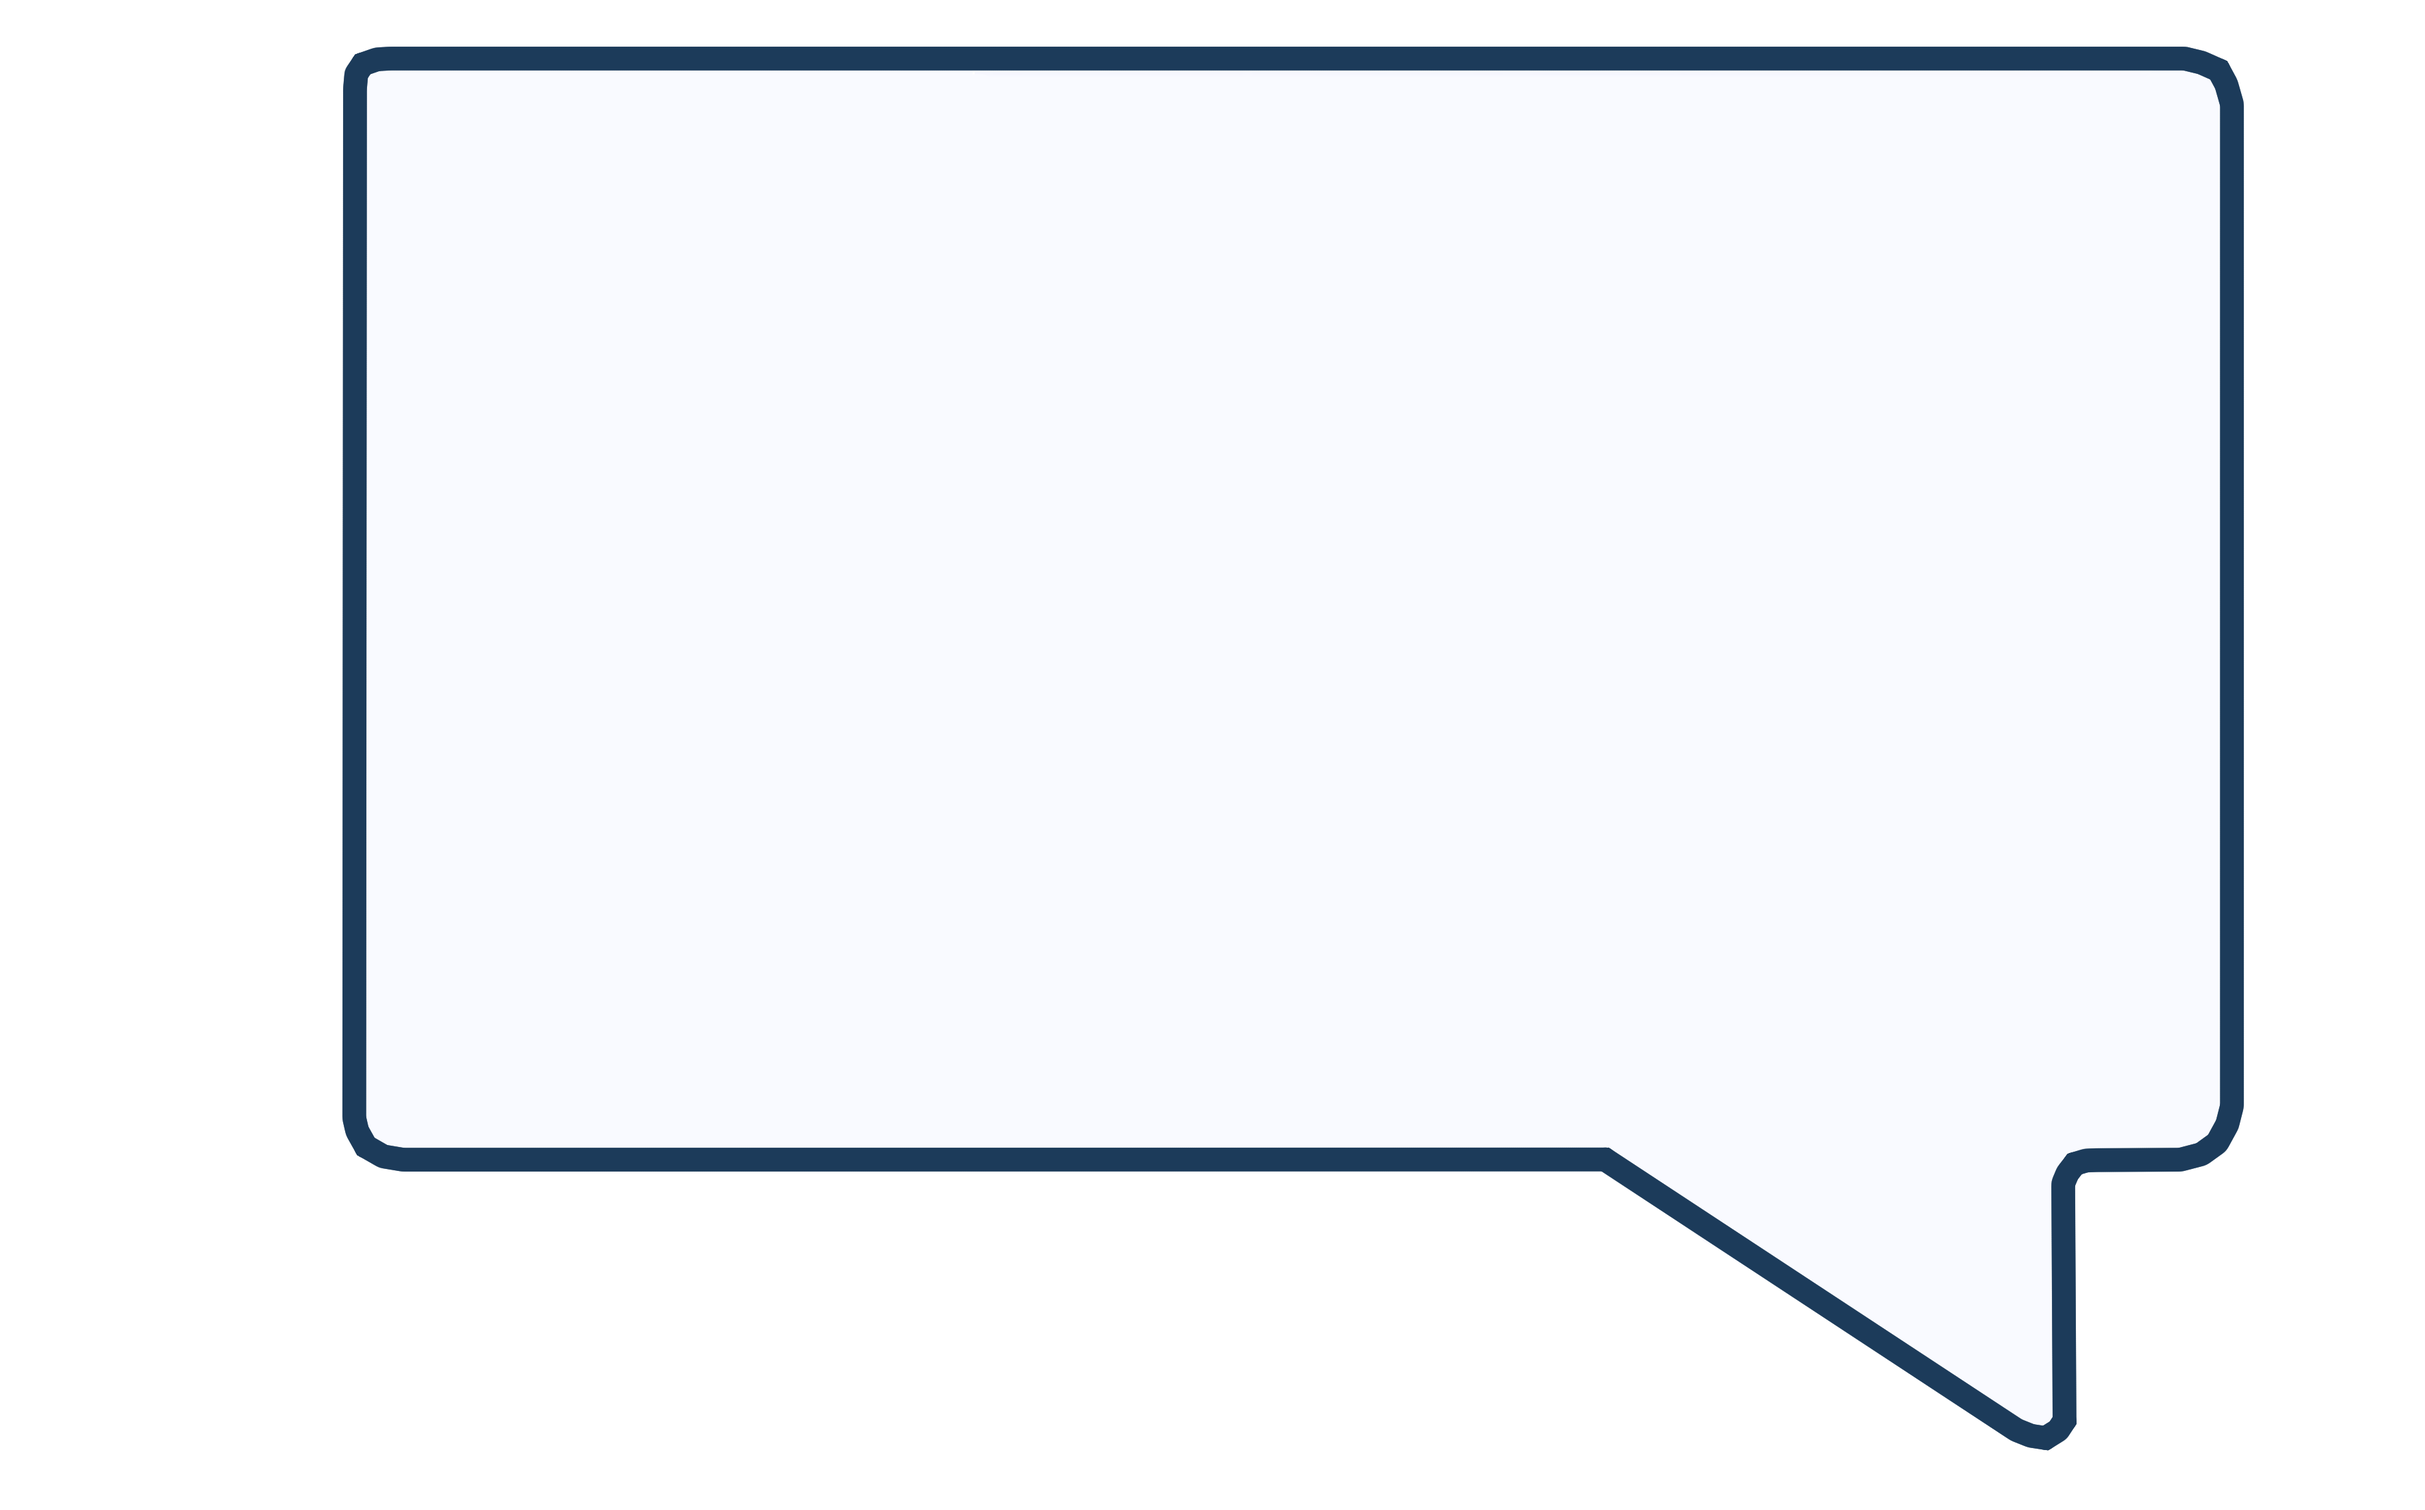
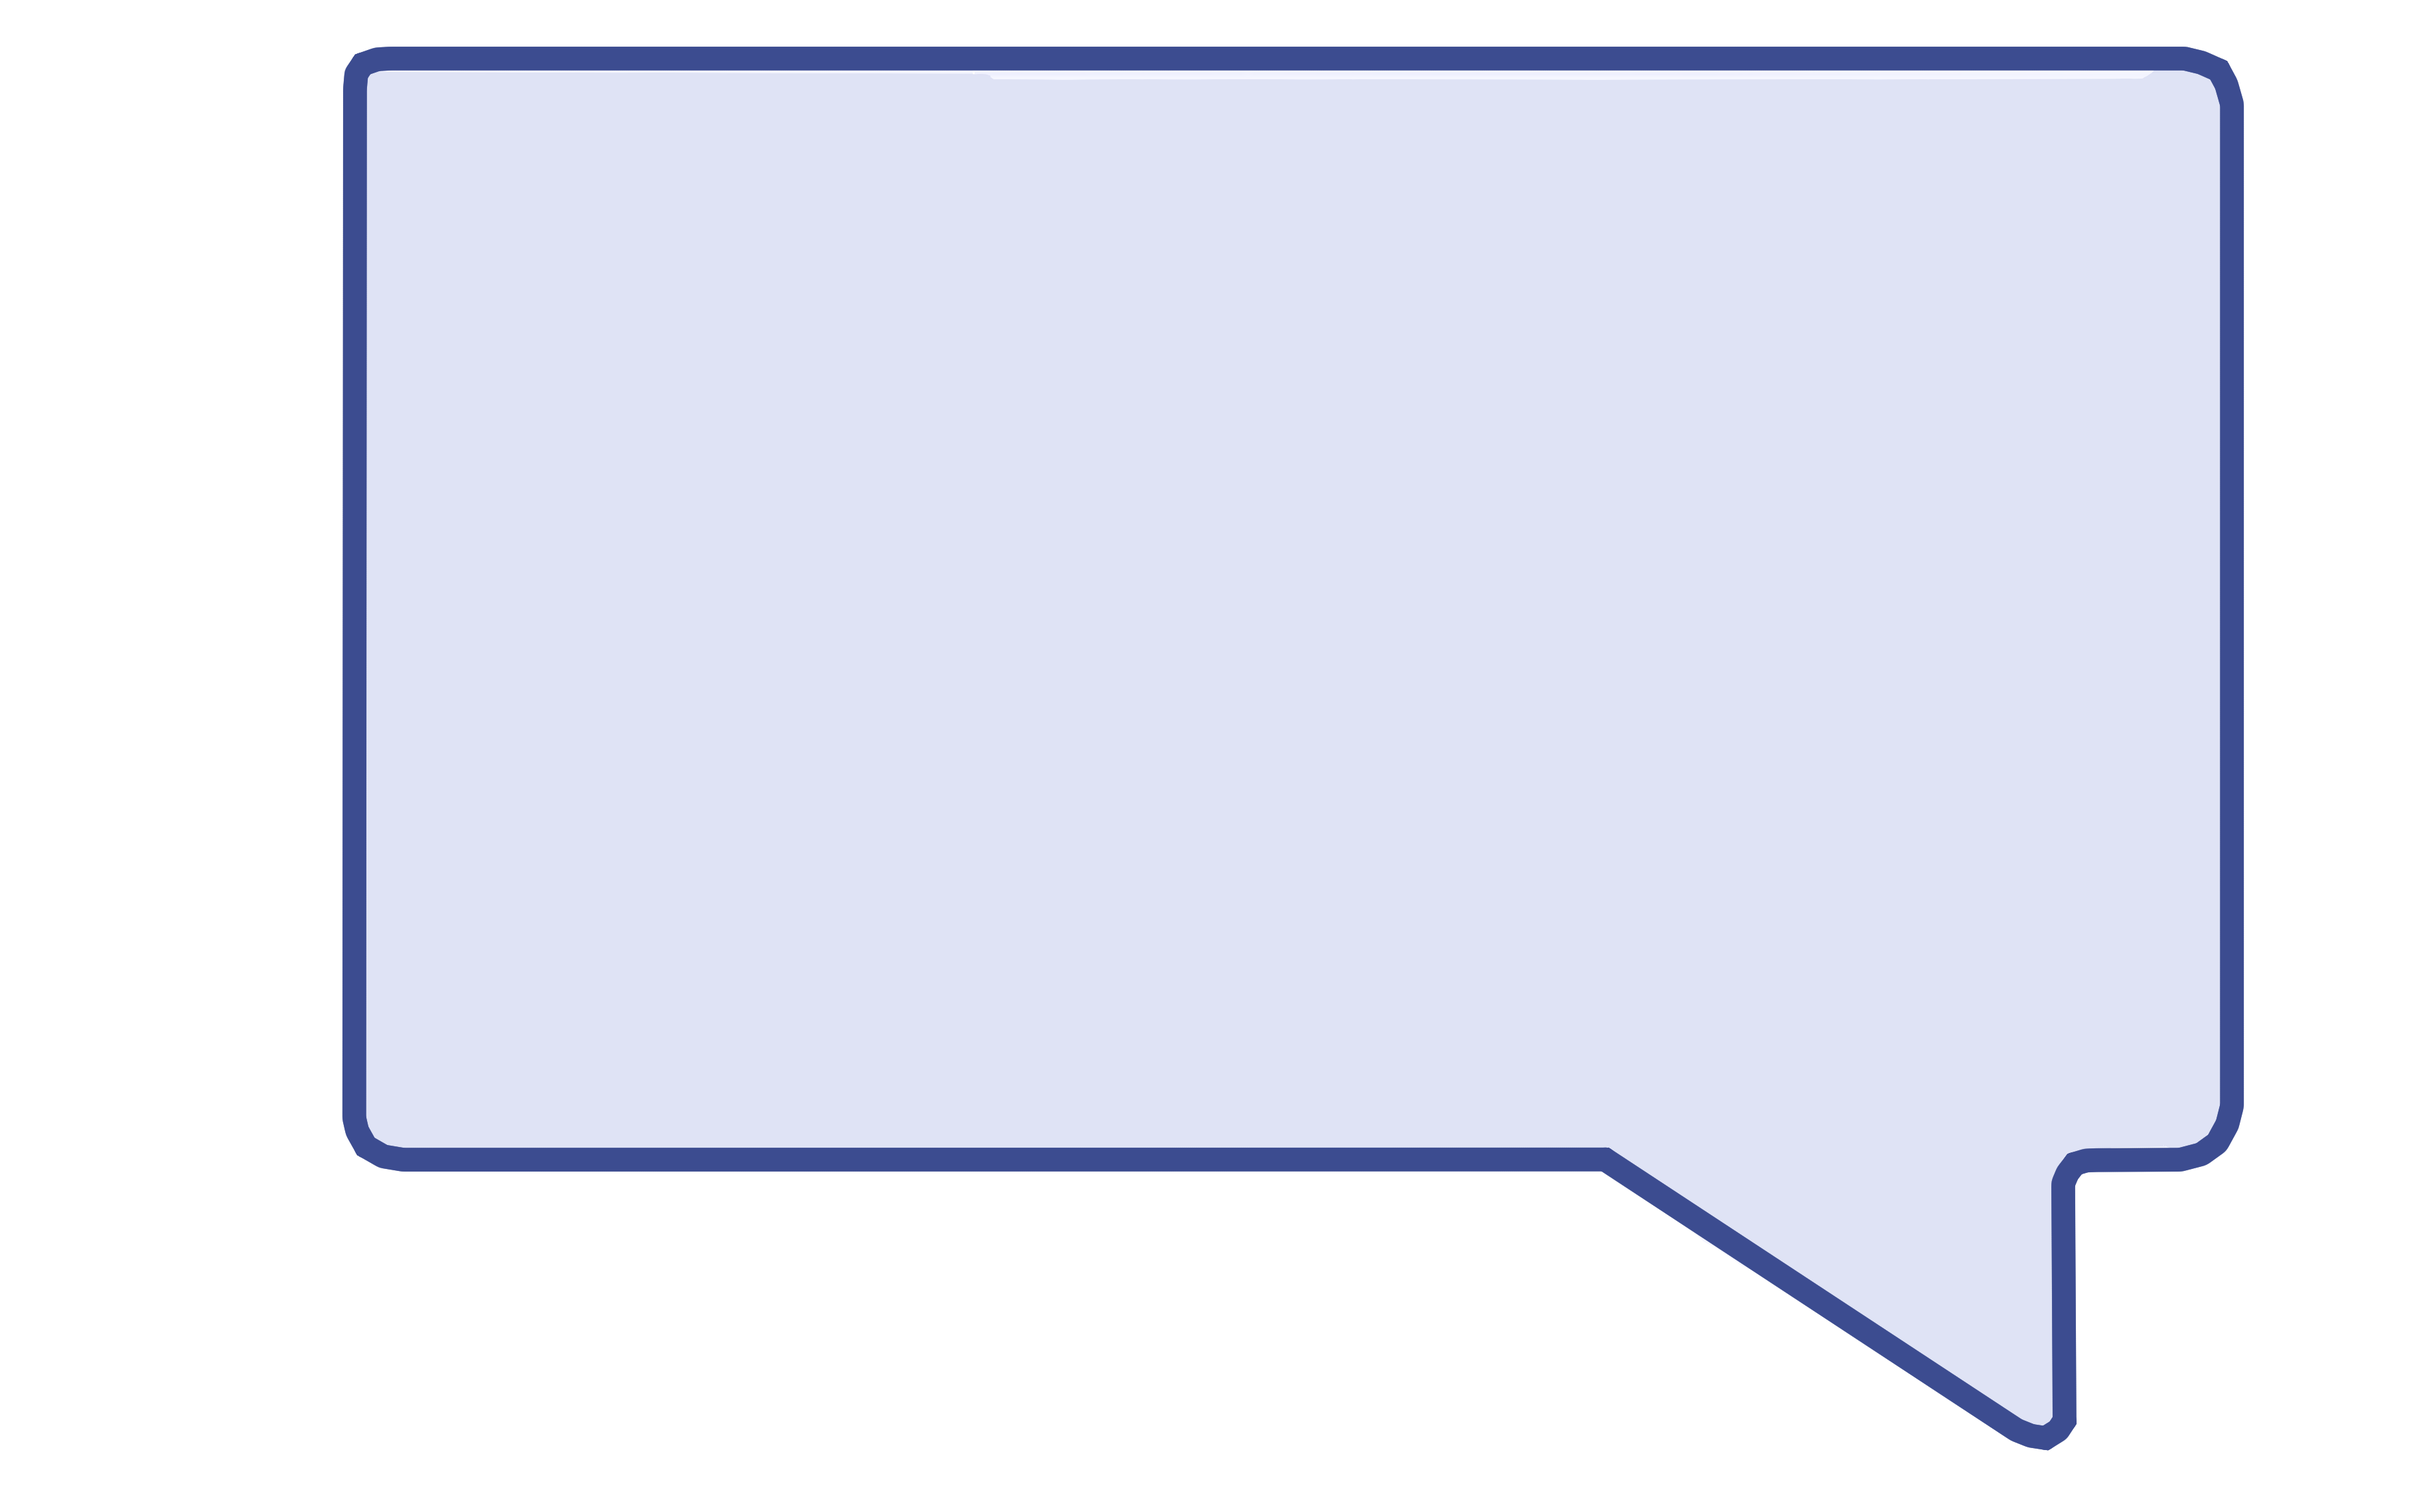
fine tuned paralax values

diff --git a/app/page.tsx b/app/page.tsx
@@ -49,6 +49,66 @@ function HomePage() {
       <p> dddddddddddddddddddddddddddddddddddddddddddddddddddddd </p>
       <p> dddddddddddddddddddddddddddddddddddddddddddddddddddddd </p>
       <p> dddddddddddddddddddddddddddddddddddddddddddddddddddddd </p>
+      <p> dddddddddddddddddddddddddddddddddddddddddddddddddddddd </p>
+
+      <p> dddddddddddddddddddddddddddddddddddddddddddddddddddddd </p>
+      <p> dddddddddddddddddddddddddddddddddddddddddddddddddddddd </p>
+      <p> dddddddddddddddddddddddddddddddddddddddddddddddddddddd </p>
+      <p> dddddddddddddddddddddddddddddddddddddddddddddddddddddd </p>
+      <p> dddddddddddddddddddddddddddddddddddddddddddddddddddddd </p>
+      <p> dddddddddddddddddddddddddddddddddddddddddddddddddddddd </p>
+      <p> dddddddddddddddddddddddddddddddddddddddddddddddddddddd </p>
+      <p> dddddddddddddddddddddddddddddddddddddddddddddddddddddd </p>
+      <p> dddddddddddddddddddddddddddddddddddddddddddddddddddddd </p>
+      <p> dddddddddddddddddddddddddddddddddddddddddddddddddddddd </p>
+      <p> dddddddddddddddddddddddddddddddddddddddddddddddddddddd </p>
+      <p> dddddddddddddddddddddddddddddddddddddddddddddddddddddd </p>
+      <p> dddddddddddddddddddddddddddddddddddddddddddddddddddddd </p>
+      <p> dddddddddddddddddddddddddddddddddddddddddddddddddddddd </p>
+
+      <p> dddddddddddddddddddddddddddddddddddddddddddddddddddddd </p>
+      <p> dddddddddddddddddddddddddddddddddddddddddddddddddddddd </p>
+      <p> dddddddddddddddddddddddddddddddddddddddddddddddddddddd </p>
+      <p> dddddddddddddddddddddddddddddddddddddddddddddddddddddd </p>
+      <p> dddddddddddddddddddddddddddddddddddddddddddddddddddddd </p>
+      <p> dddddddddddddddddddddddddddddddddddddddddddddddddddddd </p>
+      <p> dddddddddddddddddddddddddddddddddddddddddddddddddddddd </p>
+      <p> dddddddddddddddddddddddddddddddddddddddddddddddddddddd </p>
+      <p> dddddddddddddddddddddddddddddddddddddddddddddddddddddd </p>
+      <p> dddddddddddddddddddddddddddddddddddddddddddddddddddddd </p>
+      <p> dddddddddddddddddddddddddddddddddddddddddddddddddddddd </p>
+      <p> dddddddddddddddddddddddddddddddddddddddddddddddddddddd </p>
+      <p> dddddddddddddddddddddddddddddddddddddddddddddddddddddd </p>
+      <p> dddddddddddddddddddddddddddddddddddddddddddddddddddddd </p>
+
+      <p> dddddddddddddddddddddddddddddddddddddddddddddddddddddd </p>
+      <p> dddddddddddddddddddddddddddddddddddddddddddddddddddddd </p>
+      <p> dddddddddddddddddddddddddddddddddddddddddddddddddddddd </p>
+      <p> dddddddddddddddddddddddddddddddddddddddddddddddddddddd </p>
+      <p> dddddddddddddddddddddddddddddddddddddddddddddddddddddd </p>
+      <p> dddddddddddddddddddddddddddddddddddddddddddddddddddddd </p>
+      <p> dddddddddddddddddddddddddddddddddddddddddddddddddddddd </p>
+      <p> dddddddddddddddddddddddddddddddddddddddddddddddddddddd </p>
+      <p> dddddddddddddddddddddddddddddddddddddddddddddddddddddd </p>
+      <p> dddddddddddddddddddddddddddddddddddddddddddddddddddddd </p>
+      <p> dddddddddddddddddddddddddddddddddddddddddddddddddddddd </p>
+      <p> dddddddddddddddddddddddddddddddddddddddddddddddddddddd </p>
+      <p> dddddddddddddddddddddddddddddddddddddddddddddddddddddd </p>
+      <p> dddddddddddddddddddddddddddddddddddddddddddddddddddddd </p>
+
+      <p> dddddddddddddddddddddddddddddddddddddddddddddddddddddd </p>
+      <p> dddddddddddddddddddddddddddddddddddddddddddddddddddddd </p>
+      <p> dddddddddddddddddddddddddddddddddddddddddddddddddddddd </p>
+      <p> dddddddddddddddddddddddddddddddddddddddddddddddddddddd </p>
+      <p> dddddddddddddddddddddddddddddddddddddddddddddddddddddd </p>
+      <p> dddddddddddddddddddddddddddddddddddddddddddddddddddddd </p>
+      <p> dddddddddddddddddddddddddddddddddddddddddddddddddddddd </p>
+      <p> dddddddddddddddddddddddddddddddddddddddddddddddddddddd </p>
+      <p> dddddddddddddddddddddddddddddddddddddddddddddddddddddd </p>
+      <p> dddddddddddddddddddddddddddddddddddddddddddddddddddddd </p>
+      <p> dddddddddddddddddddddddddddddddddddddddddddddddddddddd </p>
+      <p> dddddddddddddddddddddddddddddddddddddddddddddddddddddd </p>
+      <p> dddddddddddddddddddddddddddddddddddddddddddddddddddddd </p>
     </div>
   );
 }

diff --git a/components/paralax/CodeArtParalax.tsx b/components/paralax/CodeArtParalax.tsx
@@ -13,46 +13,54 @@ function CodeArtParalax() {
     <div className="p-8">
       <ParallaxProvider>
         <div className="relative border-4 border-amber-900">
-          <div>
+          <div className="absolute ">
             <SpeachBubble speed={20} mirror={false}>
               <SpeachBubbleContent
                 img={ReactSpeachBubble}
                 alt="reactbubble"
-                speed={14}
-                position="right-10 top-10"
-                height={100}
-                width={100}
+                start={10}
+                end={10}
+                position="right-5 top-30"
+                height={200}
+                width={200}
+                inFront={false}
               ></SpeachBubbleContent>
 
               <SpeachBubbleContent
                 img={codePP}
                 alt="codePP"
-                speed={60}
-                position="left-10 -top-1"
-                height={400}
-                width={400}
+                start={40}
+                end={50}
+                position="left-10 top-1/14"
+                height={500}
+                width={500}
+                inFront={false}
               ></SpeachBubbleContent>
             </SpeachBubble>
           </div>
 
-          <div className="absolute right-20 top-1/2">
-            <SpeachBubble speed={60} mirror={true}>
+          <div className="absolute left-2/10 top-60">
+            <SpeachBubble speed={50} mirror={true}>
               <SpeachBubbleContent
                 img={ReactSpeachBubble}
                 alt="reactbubble"
-                speed={80}
-                position="right-20 top-20"
+                start={50}
+                end={200}
+                position="right-20 top-2/10"
                 height={100}
                 width={100}
+                inFront={true}
               ></SpeachBubbleContent>
 
               <SpeachBubbleContent
                 img={artPP}
                 alt="artPP"
-                speed={60}
-                position="left-10 -top-1"
-                height={400}
-                width={400}
+                start={80}
+                end={100}
+                position="left-20 -top-2/10"
+                height={800}
+                width={800}
+                inFront={false}
               ></SpeachBubbleContent>
             </SpeachBubble>
           </div>

diff --git a/components/paralax/SpeachBubble.tsx b/components/paralax/SpeachBubble.tsx
@@ -40,21 +40,20 @@ const SpeachBubble = ({
         if (BoundingBoxRef.current && rect) {
           if (BoundingBoxRef.current.style) {
             const aspect = rect.height / rect.width;
-            const heightMult: number = rect.height > 486.3 ? 1.7 : 1.2;
-            console.log(heightMult);
-            console.log(rect.height);
+
+            const leftMult = mirror ? 0.24 : 0.14;
             BoundingBoxRef.current.style.height = `${
-              rect.height * aspect * heightMult
+              rect.height * aspect * 1.15
             }px`;
             BoundingBoxRef.current.style.width = `${
-              rect.width * aspect * 1.2
+              rect.width * aspect * 1.23
             }px`;
 
             BoundingBoxRef.current.style.top = `${
-              rect.height * aspect * 0.1
+              rect.height * aspect * 0.07
             }px`;
             BoundingBoxRef.current.style.left = `${
-              rect.width * aspect * 0.15
+              rect.width * aspect * leftMult
             }px`;
           }
         }
@@ -65,18 +64,15 @@ const SpeachBubble = ({
   return (
     <div>
       <Parallax speed={speed}>
-        <div
-          ref={BoundingBoxRef}
-          className="absolute overflow-hidden   border-4 border-blue-800"
-        >
+        <div ref={BoundingBoxRef} className="absolute overflow-hidden ">
           {children}
         </div>
-        <div ref={BubbleImgRef} className="border-4 border-b-fuchsia-600 ">
+        <div ref={BubbleImgRef} className=" ">
           <Image
             src={bubble}
             alt="speach"
-            width={770}
-            height={770}
+            width={1000}
+            height={1000}
             onLoad={() => parallaxController?.update()}
           />
         </div>

diff --git a/components/paralax/SpeachBubbleContent.tsx b/components/paralax/SpeachBubbleContent.tsx
@@ -5,23 +5,28 @@ import { useParallaxController } from "react-scroll-parallax";
 
 function SpeachBubbleContent({
   img,
-  speed,
+  start,
+  end,
   position,
   alt,
   height,
   width,
+  inFront,
 }: {
   img: StaticImageData;
-  speed: number;
+  start: number;
+  end: number;
   position: string;
   alt?: string;
   height: number;
   width: number;
+  inFront: boolean;
 }) {
   const parallaxController = useParallaxController();
+  const cssPosition = inFront ? "fixed" : "absolute";
   return (
-    <div className={`absolute ${position}`}>
-      <Parallax speed={speed}>
+    <div className={`${cssPosition}  ${position}`}>
+      <Parallax translateY={[start, -end]}>
         <Image
           src={img}
           alt={alt ? alt : ""}

diff --git a/components/global/Container.tsx b/components/global/Container.tsx
@@ -8,10 +8,6 @@ function Container({
   children: ReactNode;
   className?: string;
 }) {
-  return (
-    <div className={cn("mx-auto max-w-6xl xl:max-w-7xl px-8", className)}>
-      {children}
-    </div>
-  );
+  return <div className={cn("mx-auto  px-8", className)}>{children}</div>;
 }
 export default Container;
